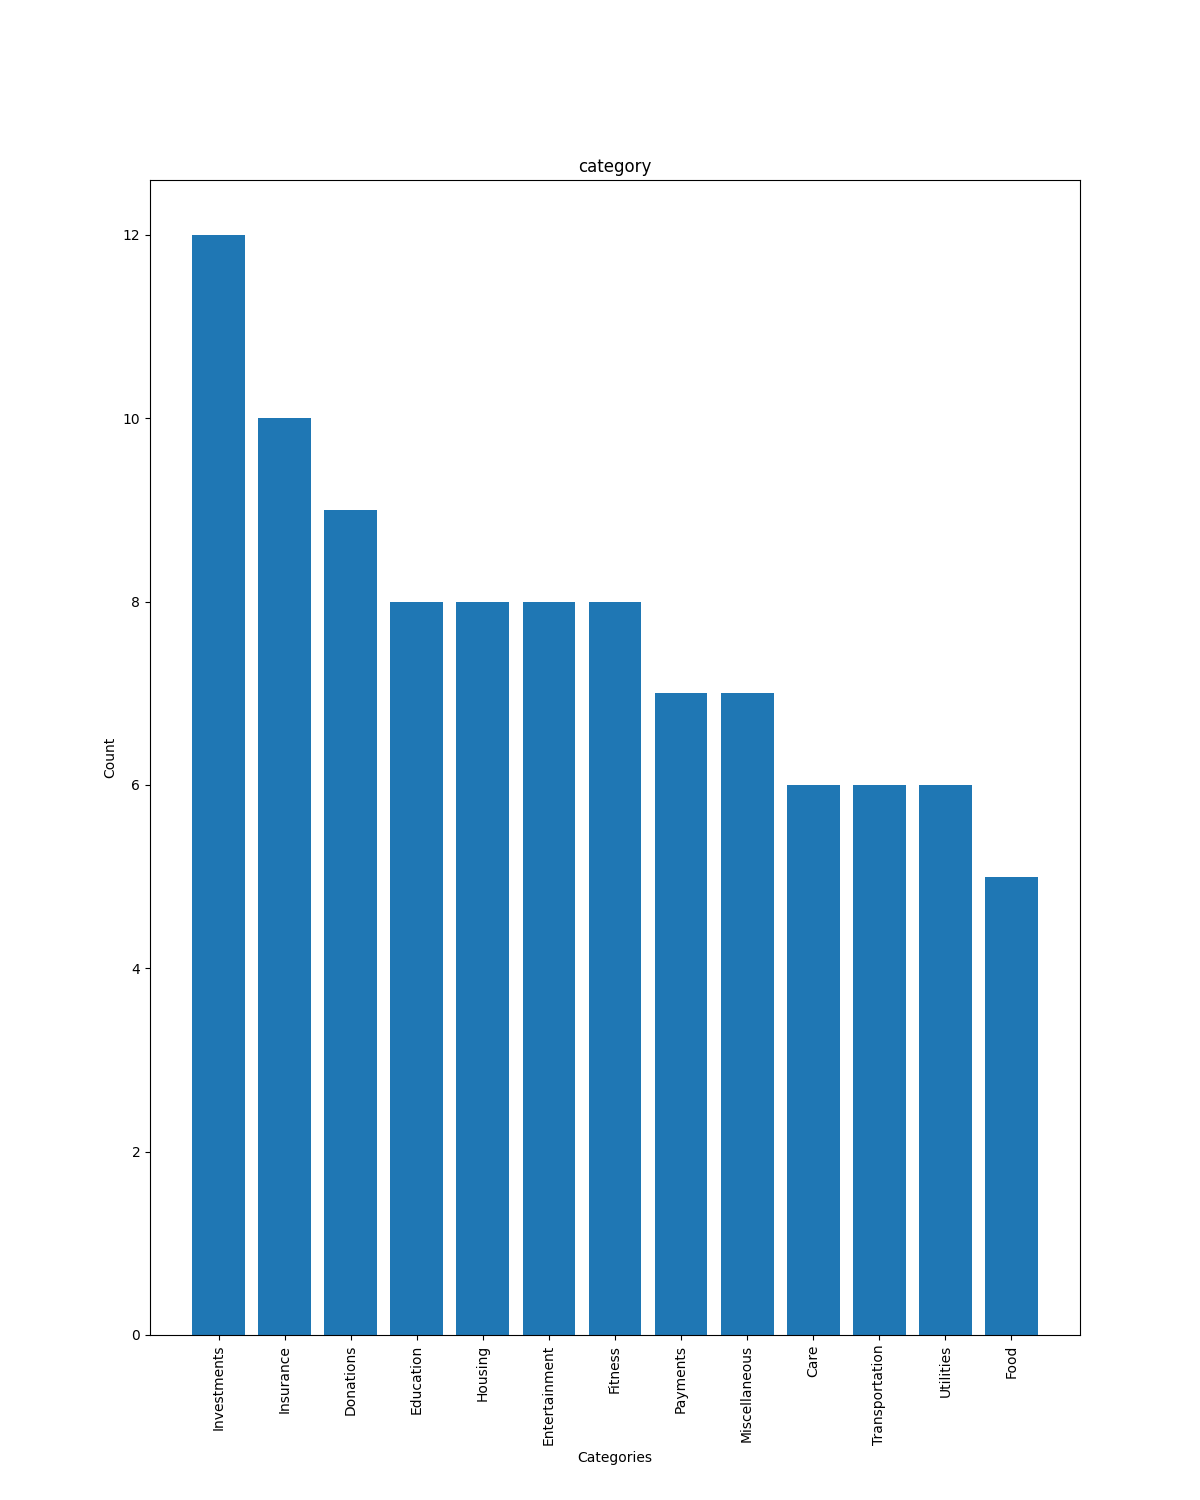
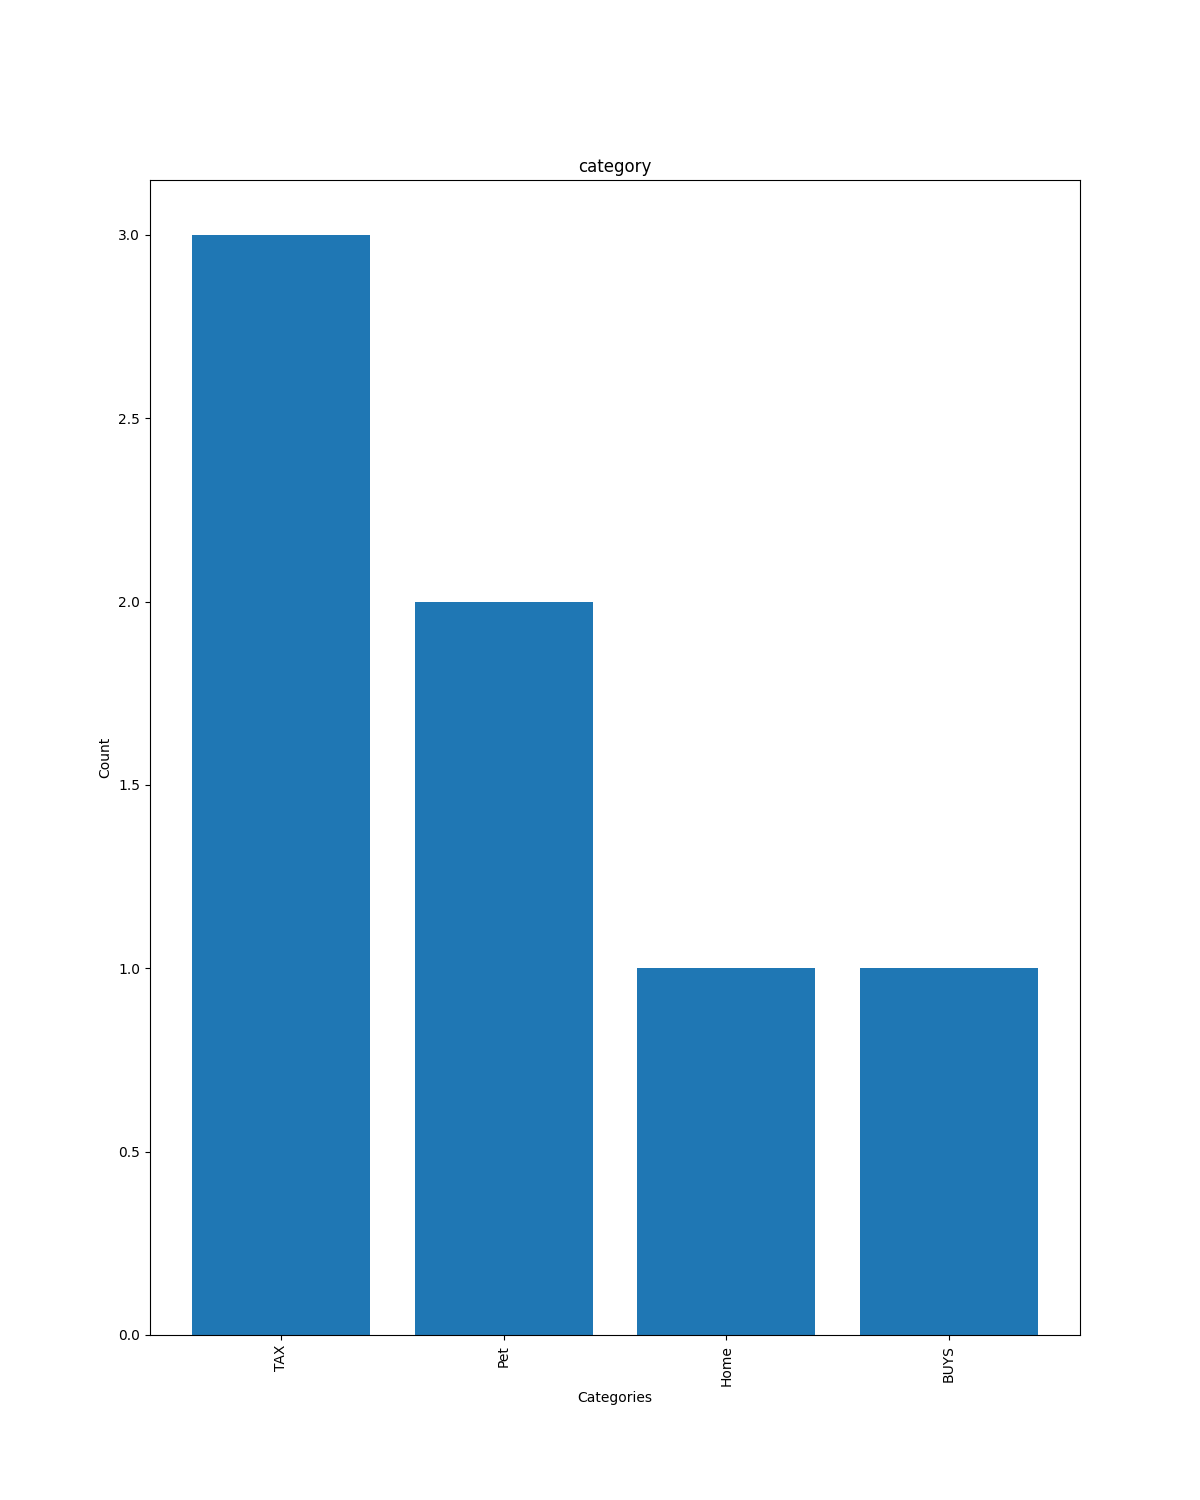
tests and debug

diff --git a/utils/expense_mgmt.py b/utils/expense_mgmt.py
@@ -35,10 +35,13 @@ def save_categories(new_cat):
     cats_ex = read_categories_file()
     mode ='a' if exists else 'w'
     if cats_ex is None or new_cat not in cats_ex or not exists:
-        cats = [new_cat]
-    with open(file, mode) as f:
-        f.writelines([cat+'\n' for cat in cats])
-        print('Categories updated successfully!')
+        with open(file, mode) as f:
+            if not exists:
+                f.writelines('\n')
+            f.writelines(new_cat)
+            print('Categories updated successfully!')
+    else:
+        print(f'A category already exists with that name. The category {new_cat} is going to be used.')
 
 def input_date_manually():
     correct = False
@@ -58,11 +61,9 @@ def input_date_manually():
             correct = False
 
 def expense_category():
+    print('What is the expense category?')
     categories = read_categories_file()
-    if categories is None:
-        category, categories = add_category()
-    else:
-        category, categories = select_or_add_cat(categories)
+    category, categories = select_or_add_cat(categories)
     save_categories(category)
     return category
 
@@ -96,7 +97,7 @@ def expense_amount():
     modify = True
     while incorrect or modify:
         try:
-            amount = int(input('Input the expense amount: '))
+            amount = int(input('Input the expense amount (enter the number with no dots or commas): '))
             print(f'The input expense was: ${amount:,.2f}')
             modify = confirm()
             incorrect = False
@@ -145,25 +146,12 @@ def add_category(categories=None):
 
 
 def select_or_add_cat(categories):
-    cat_menu = {1:'Add a new category', 2: 'Select a category'}
-    cat_menu_txt = ''.join([f'{i[0]}. {i[1]}\n' for i in cat_menu.items()]) 
-    sel = 0 
     goback = True
-    while sel not in range(1,len(cat_menu)+1) or goback:
-        print('\nExistent categories:\n'+cat_menu_txt)
-        try:
-            sel = int(input('Please select an option\n'))
-        except ValueError:
-            sel=0
-            print('Please select a valid option.')
-            continue
-        if sel not in range(1,len(cat_menu)+1):
-            sel = 0
-            continue
-        if sel ==1:
+    while categories is None or goback:
+        if categories is None:
             category, categories = add_category(categories)
             return category, categories
-        elif sel==2:
+        else:
             category = select_category(categories)
             if category is None:
                 goback = True
@@ -184,6 +172,10 @@ def select_category(categories):
             continue
         if cat_num==0:
             return
+        elif cat_num not in range(len(cats_sels.items())):
+            print('Please select a valid option!')
+            modify = True
+            continue
         print(f'The selected category is: {cats_sels[cat_num]}')
         modify = confirm()
         if not modify:

diff --git a/utils/analysis.py b/utils/analysis.py
@@ -3,22 +3,32 @@ import matplotlib.pyplot as plt
 from utils.utils import read_data, confirm
 from config import ANALISYS_PATH
 import os
+from utils import basic as bsc
 
 
 def show_history():
+    goback = bsc.show_selection_bckmenu(2)
+    if goback:
+        return
+    print('Welcome to Show History. Here you can see the expenses submitted.')
     df = read_data()
     see = True
     i = 0
     while see:
         dfi = df.iloc[i:i+10, :]
         if dfi.empty:
+            print('There is no more data to show.')
             return
         print(dfi)
-        more = confirm('See more data (yes/no): ')
-        if more:
-            i+=10
+        if not df.iloc[i+10:i+20, :].empty:
+            more = confirm('See more data (yes/no): ')
+            if more:
+                i+=10
+            else:
+                see = False
         else:
-            see = False
+            print('There is no more data to show.')
+            return
 
 def show_barplots(df:pd.DataFrame, datetime_columns:list):
     cols = [col for col in df.select_dtypes(include=['object', 'category']) if col not in datetime_columns]
@@ -55,11 +65,26 @@ def show_pie_plot(df, cat_col):
     os.system(f'start {ANALISYS_PATH}/categories_pieplot.png')
 
 def expenses_analysis():
+    goback = bsc.show_selection_bckmenu(3)
+    if goback:
+        return
+    print('Welcome to Expenses Analysis. the following table shows dispersion measures of quantitative columns.')
     if not os.path.exists(f'{ANALISYS_PATH}'):
         os.mkdir(f'{ANALISYS_PATH}')
     df = read_data()
     print('--------------------Quantitative values stats---------------')
     print(df.describe())
+    print('')
+    print('--------------------Expended total---------------')
+    print('')
+    total = df['amount'].sum()
+    print(f'$ {total:,.2f}')
+    print('')
+    print('--------------------Expendables by category---------------')
+    print('')
+    df_by_cat = df.groupby(['category'])['amount'].sum()
+    print(df_by_cat)
+    print('')
     datetime_columns = df.select_dtypes(include=['datetime64[ns]']).columns
     input('Plots are going to be opened as soon as you hit enter.')
     show_barplots(df, datetime_columns)

diff --git a/app.py b/app.py
@@ -6,7 +6,6 @@ import glob
 import os
 import csv
 from config import INPUT_DATA, EXPENSES_HIST, FAREWELLS, MENU, ANALISYS_PATH
-import matplotlib.pyplot as plt
 from utils import expense_mgmt as exp 
 from utils.utils import confirm
 from utils.expense_mgmt import new_expense
@@ -23,6 +22,10 @@ def expense_desc():
     return desc
 
 def add_expense():
+    goback = bsc.show_selection_bckmenu(1)
+    if goback:
+        return
+    print('Welcome to add expense. To add a new expense input the data required.')
     date_exp = exp.expense_date()
     amount = exp.expense_amount()    
     source = exp.expense_paymethod()
@@ -56,27 +59,25 @@ def read_history():
 
 
 if __name__ =="__main__":
-    goback, repeat = True, True
-    while goback or repeat:
+    goback = True
+    while goback:
         bsc.welcome()
         selection = bsc.get_selection()
-        goback = bsc.show_selection_bckmenu(selection)
-        if goback:
-            continue
         if 'exit' in MENU[selection].lower():
             # select an farewell sentence randomly
-            print(FAREWELLS[random.randint(0, len(FAREWELLS))])
+            print(FAREWELLS[random.randint(0, len(FAREWELLS)-1)])
             # exit
             sys.exit()
         elif selection==1:
             add_expense()
-            repeat = confirm('Do you wish to perform another operation? (yes/no)')
         elif selection==2:
             analysis.show_history()
-            repeat = confirm('Do you wish to perform another operation? (yes/no)')
         elif selection==3:
             analysis.expenses_analysis()
         
+        if goback:
+            continue
+    print(FAREWELLS[random.randint(0, len(FAREWELLS)-1)])
             
 
 

diff --git a/utils/utils.py b/utils/utils.py
@@ -5,7 +5,7 @@ import pandas as pd
 
 def read_data():
     files = f'{INPUT_DATA}/{EXPENSES_HIST}'
-    df = pd.read_csv(files, index_col=0)
+    df = pd.read_csv(files)
     for col in df.columns:
         if 'date' in col.lower():
             df[col] = pd.to_datetime(df[col])

diff --git a/config.py b/config.py
@@ -2,7 +2,7 @@ INPUT_DATA = 'history_data'
 EXPENSES_HIST = 'expenses_history.csv'
 ANALISYS_PATH = 'analysis_plots'
 
-DEBUG = True
+DEBUG = False
 if DEBUG:
     INPUT_DATA = 'test'
     EXPENSES_HIST = 'dummy_data.csv'
